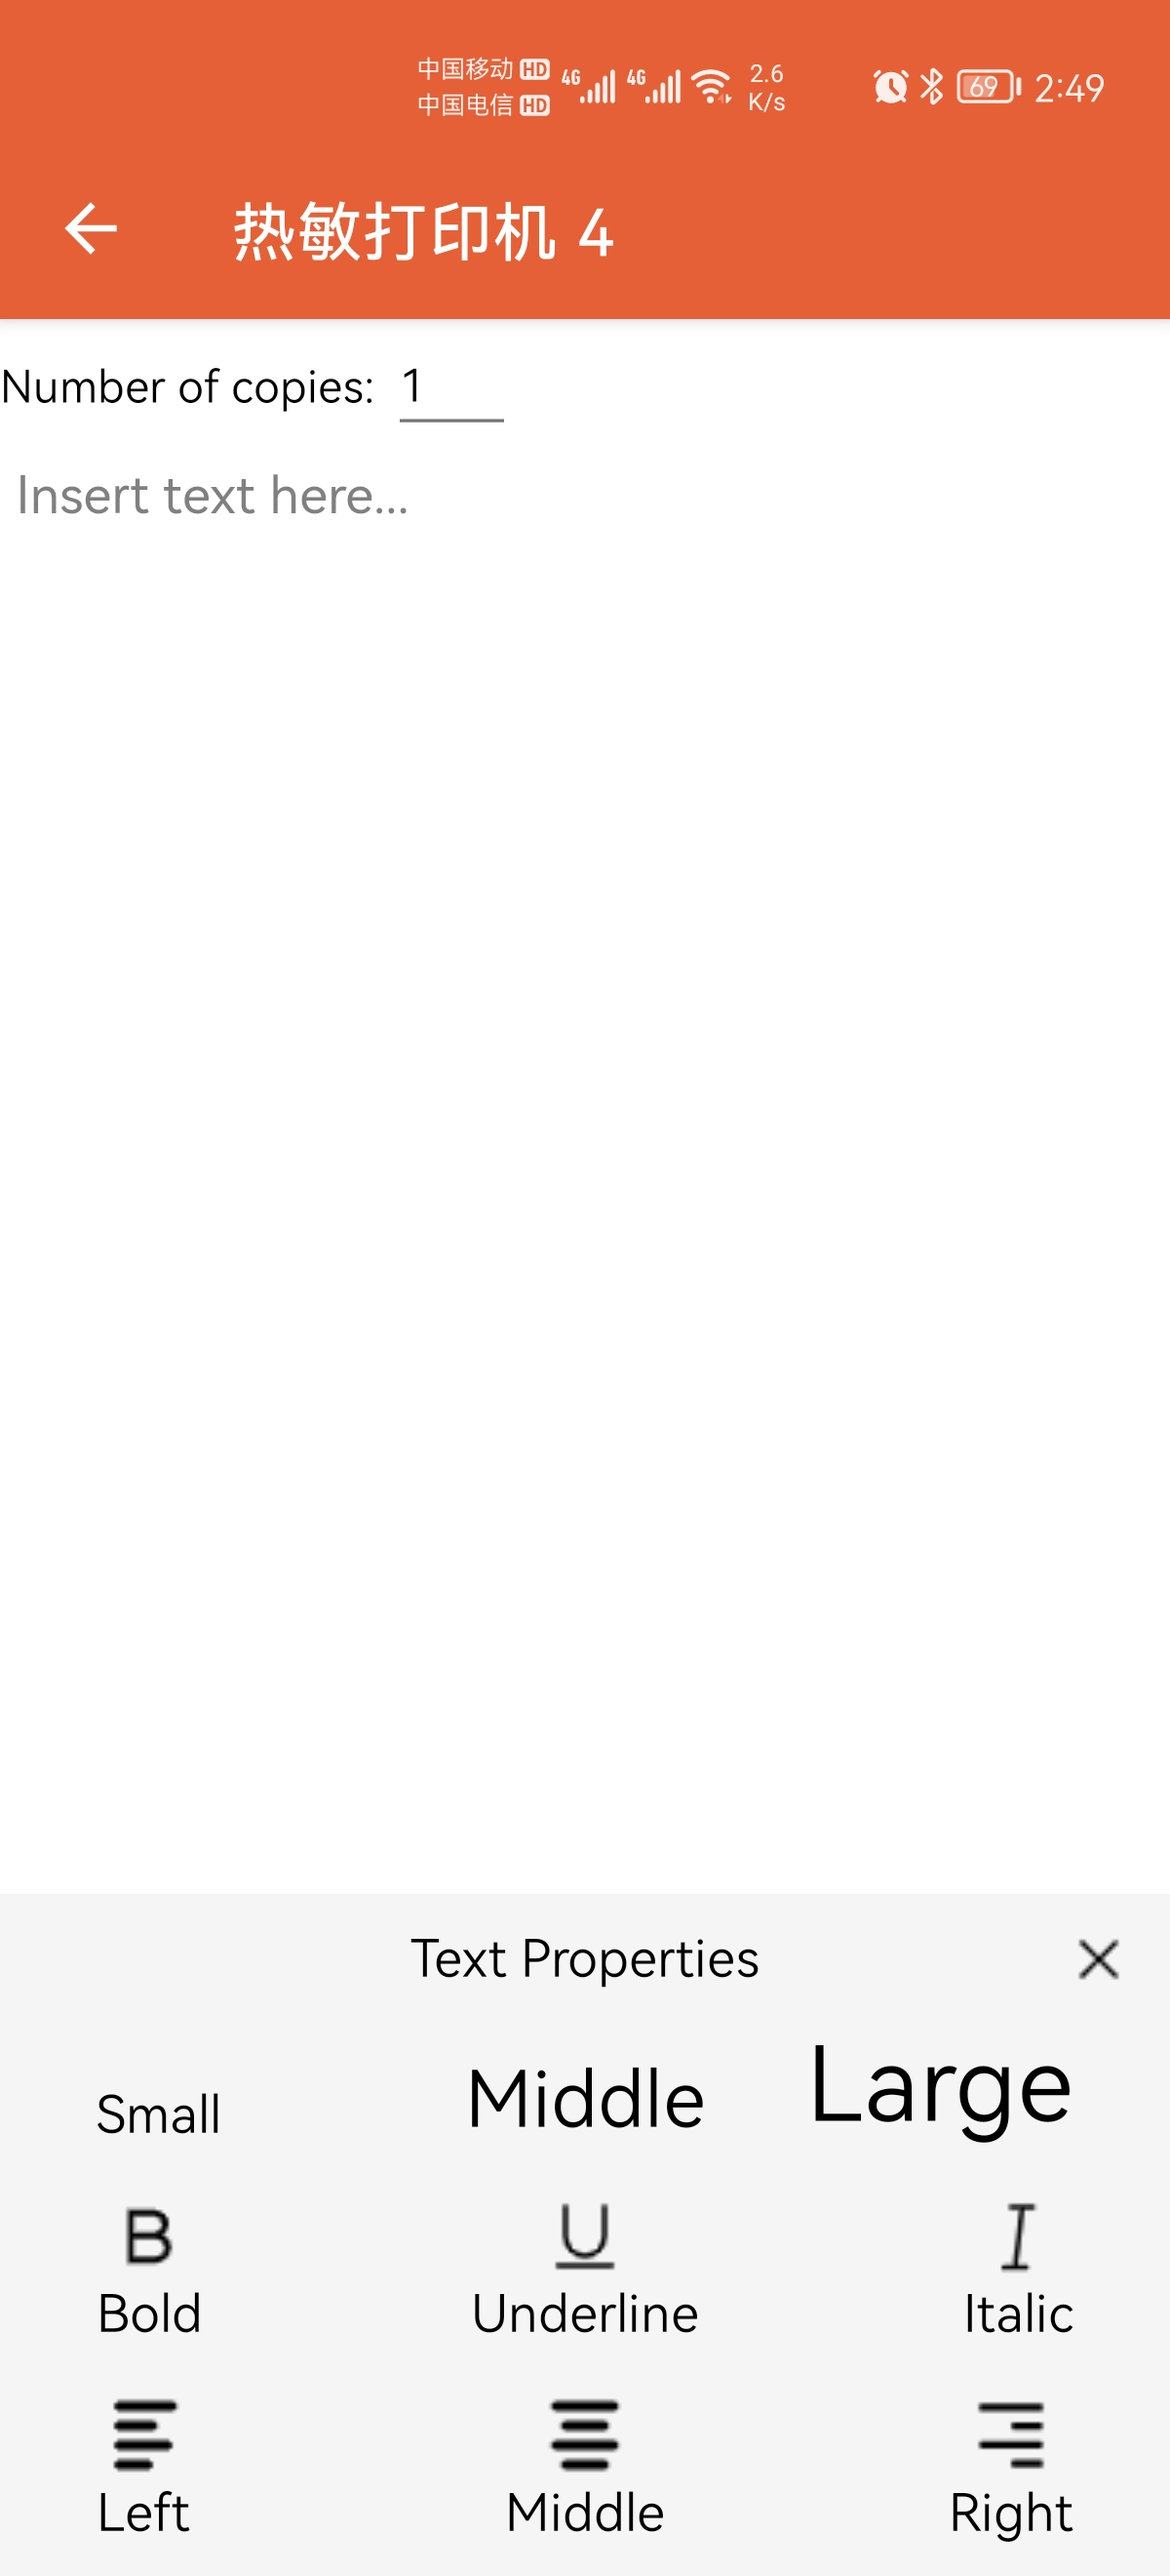
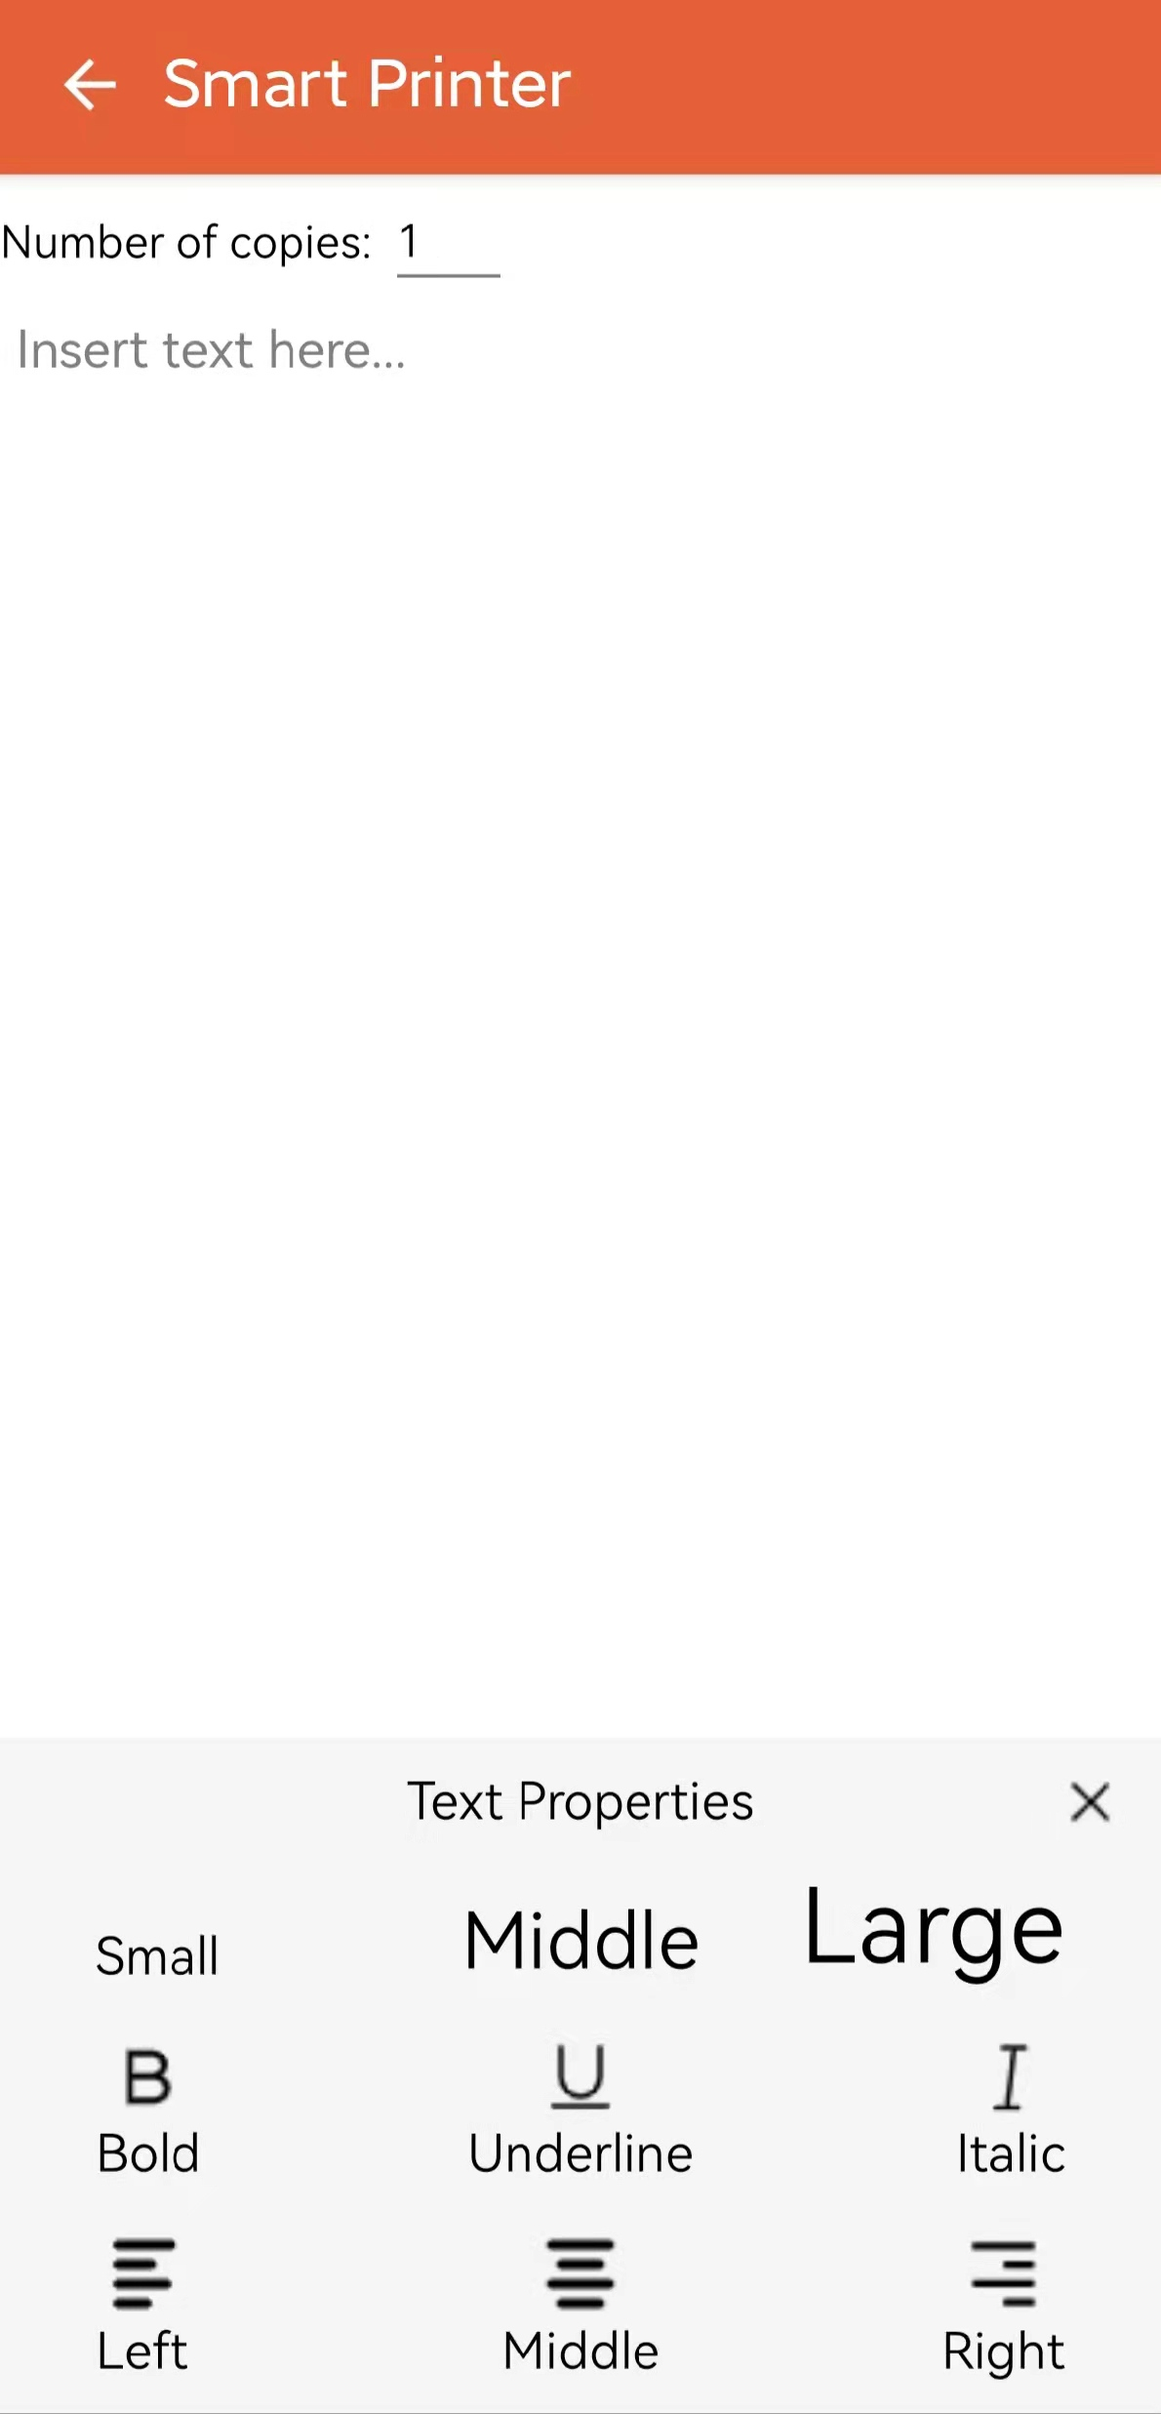
update readme

diff --git a/README_zh.md b/README_zh.md
@@ -22,9 +22,9 @@ Tuya Android Smart Printer Sample 在基于[tuya-home-android-sdk-sample-java](h
 
 智能打印机设备控制界面如下：
 
-<img src="https://github.com/tuya/tuya-smart-printer-sample-java/blob/master/IMG/sample_img_1.jpg" width="30%;" />
+<img src="https://github.com/tuya/tuya-smart-printer-sample-java/blob/master/IMG/sample_img_5.jpg" width="30%;" />
 <br/>
-<img src="https://github.com/tuya/tuya-smart-printer-sample-java/blob/master/IMG/sample_img_2.jpg" width="30%;" />
+<img src="https://github.com/tuya/tuya-smart-printer-sample-java/blob/master/IMG/sample_img_6.jpg" width="30%;" />
 
 #### 三、使用须知
 
